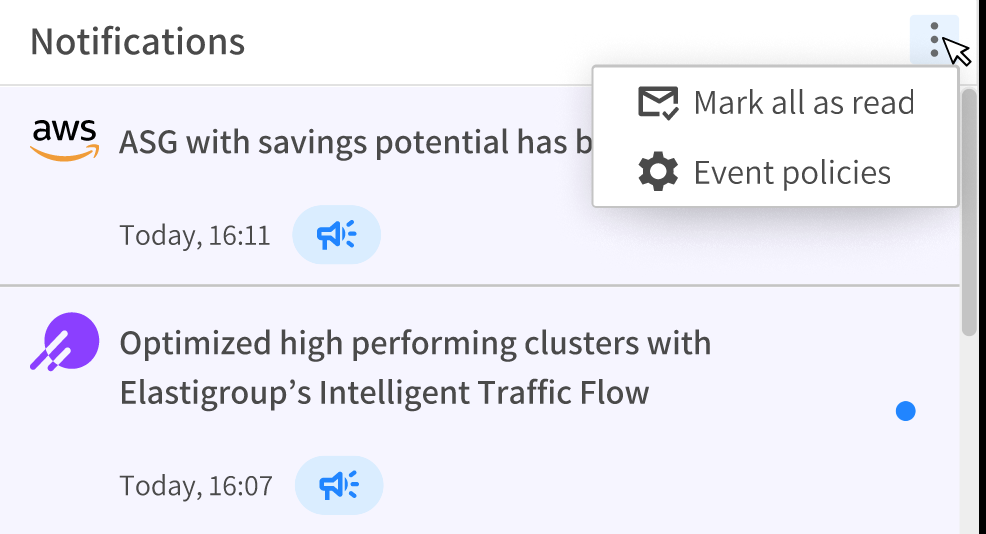
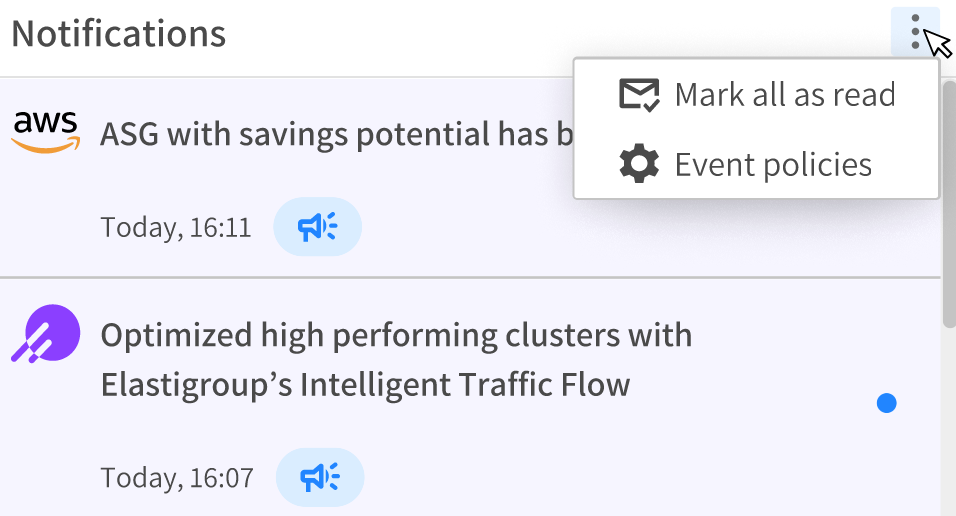
notifications fixes

diff --git a/src/docs/administration/notification-center/notifications/README.md b/src/docs/administration/notification-center/notifications/README.md
@@ -18,7 +18,7 @@ Click a message preview to view and [read the full message](administration/notif
 
 A blue dot on the right indicates unread notifications. When you hover the cursor over the three dots on the top right of the preview panel, you can choose to mark all as read or to go to the Notification Policies page, where you define the types of notifications you receive.
 
-<img src="/administration/_media/message-notifications-03.png" />
+<img src="/administration/_media/message-notifications-03.png" width="350" />
 
 ## Notification Types
 
@@ -34,7 +34,7 @@ In addition to a title and the first line of the notification, a preview can inc
 - Notification menu: Hover the cursor over the top right of the notification to see the three dots, and click the three dots to menu.
 - Flag
 
-<img src="/administration/_media/message-notifications-04.png" />
+<img src="/administration/_media/message-notifications-04.png" width="400"/>
 
 ## What’s Next?
 
